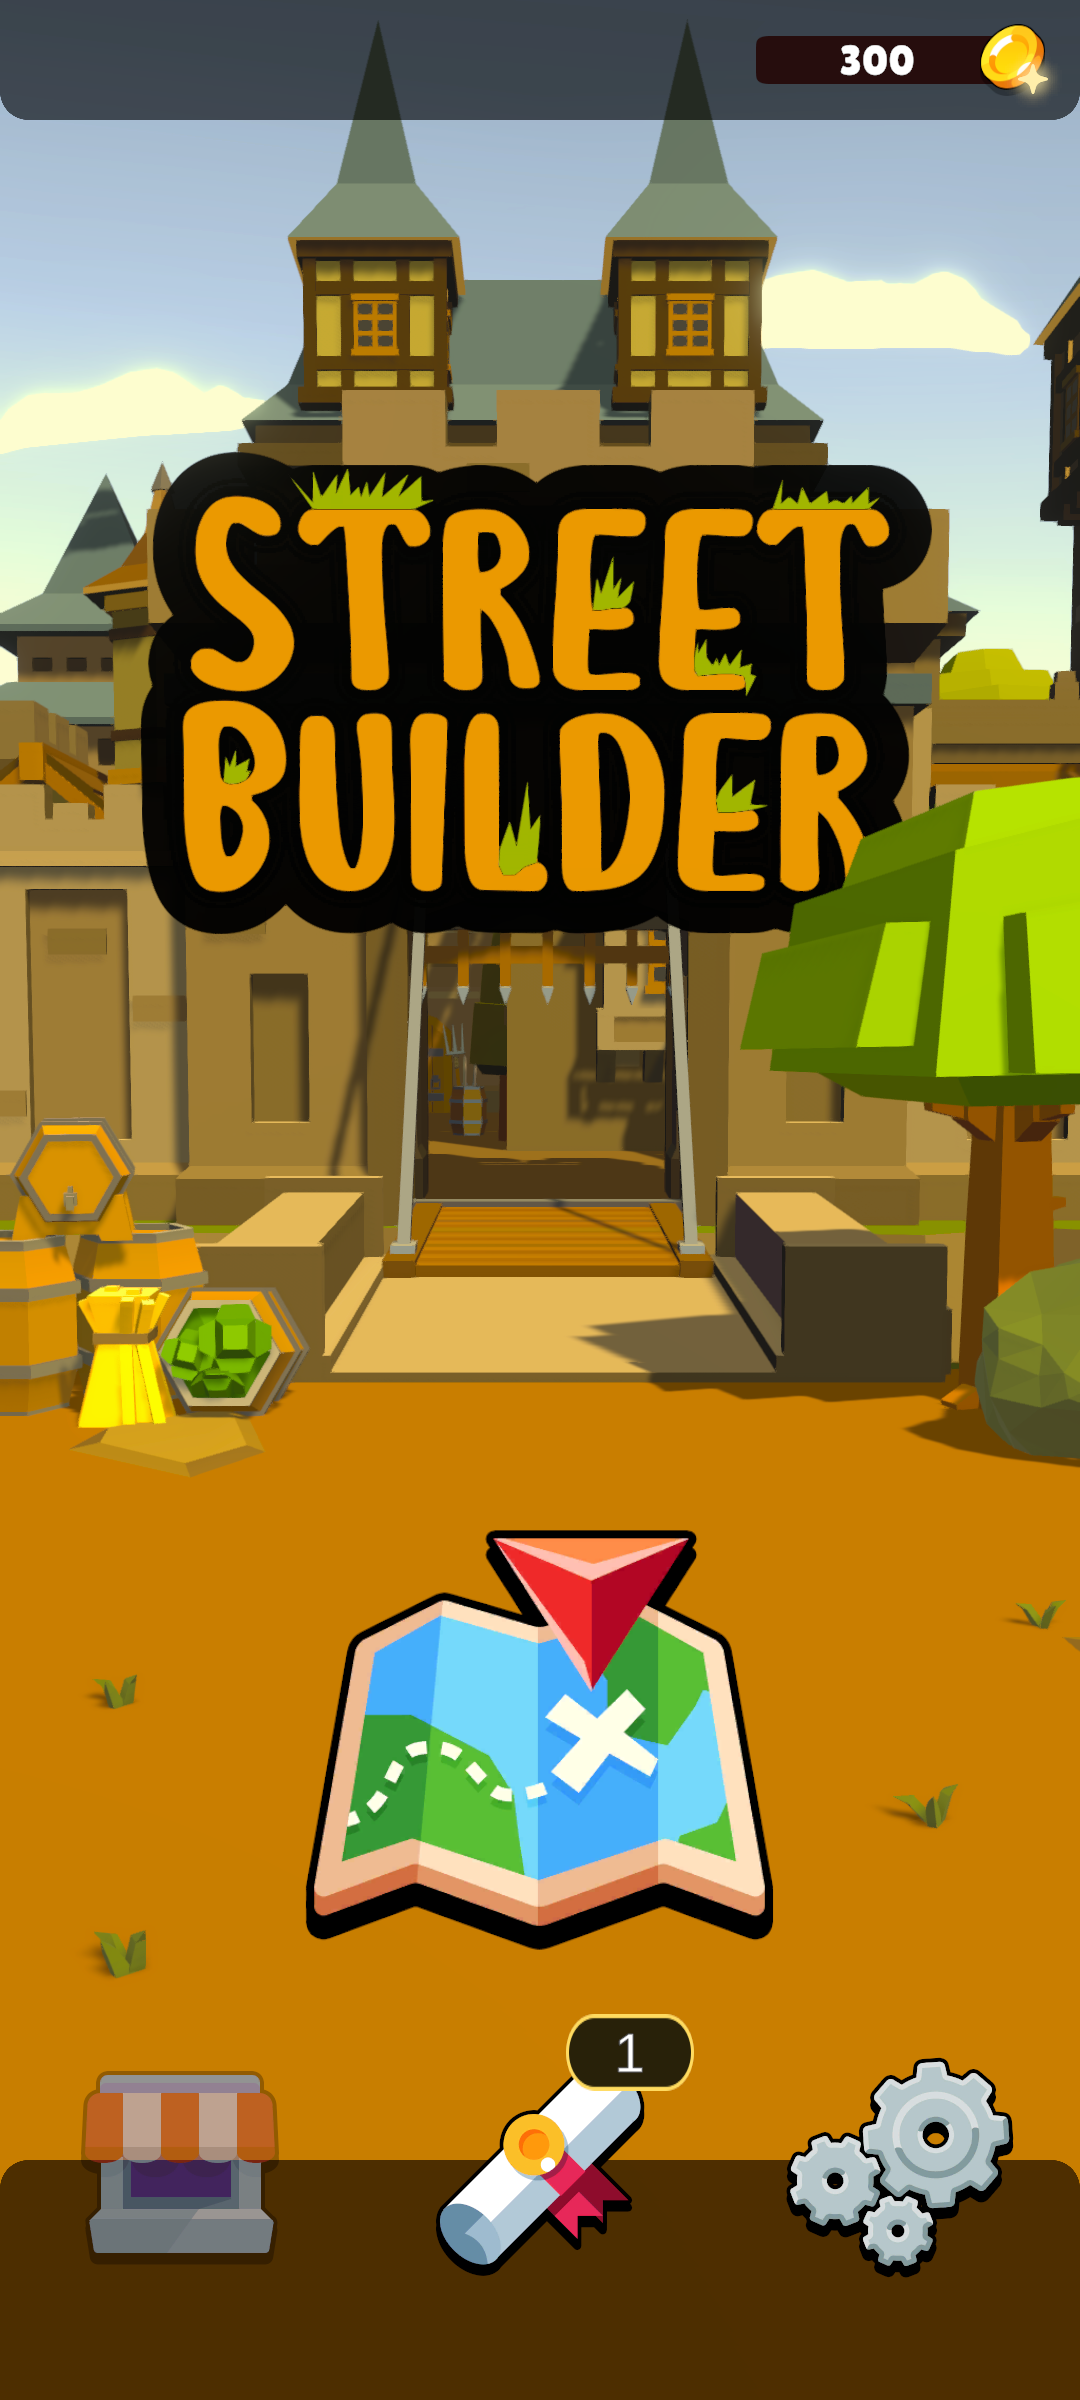
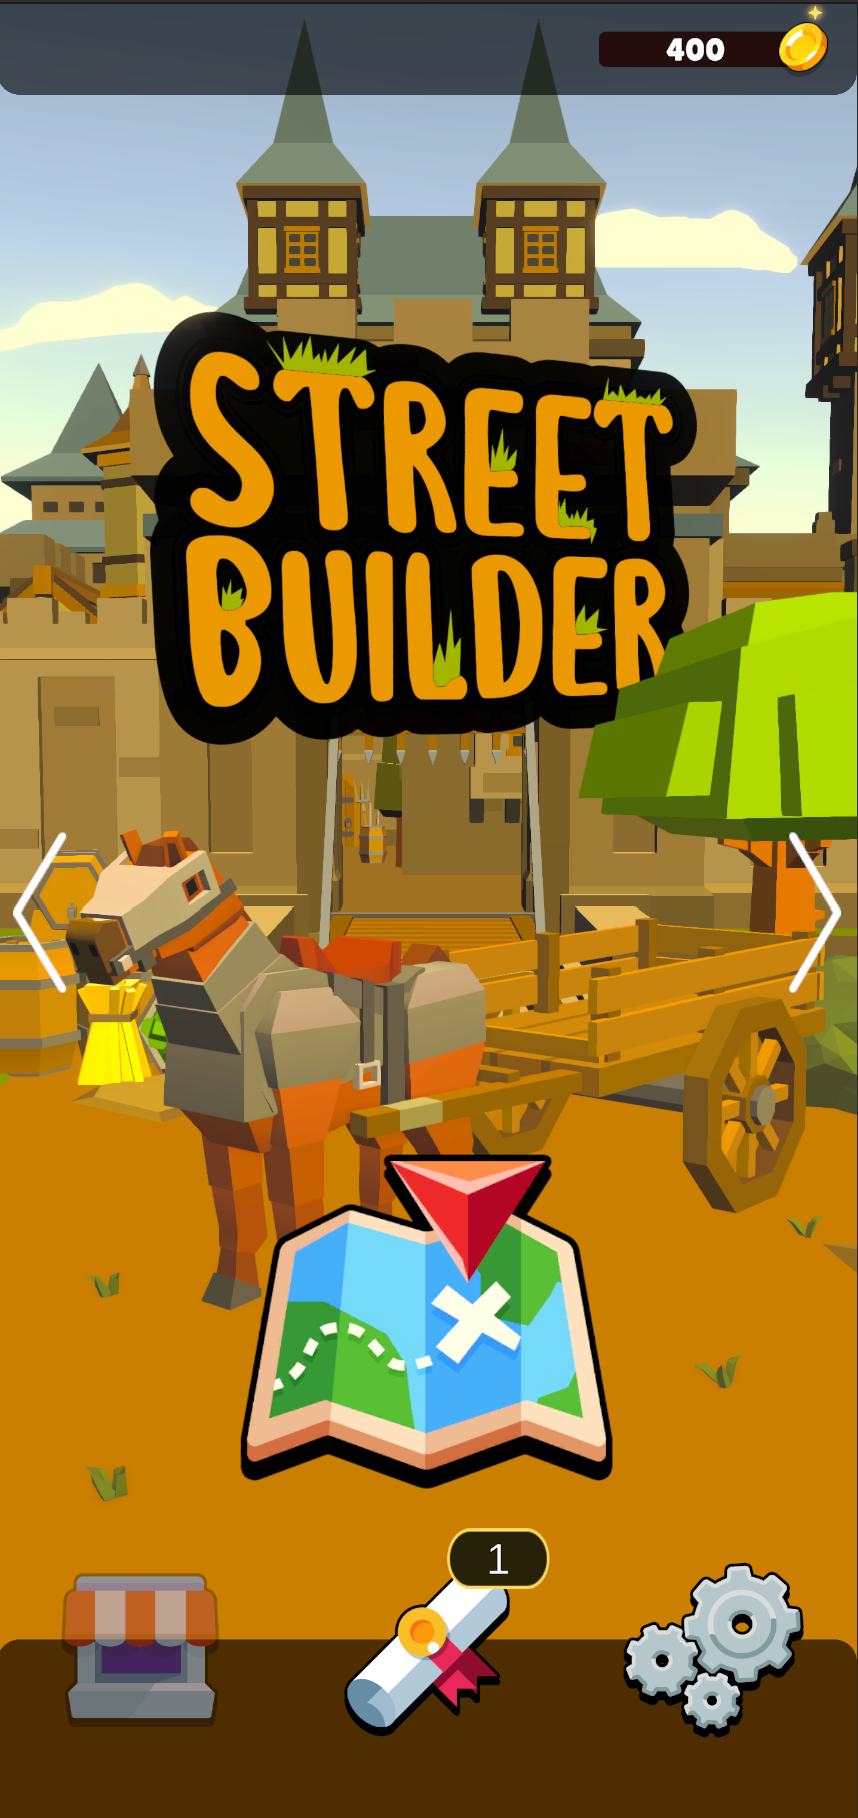
Added Images and Gif

diff --git a/README.md b/README.md
@@ -1,1 +1,3 @@
 # streetbuilder
+
+<img src="images/gameplay.gif" height="700px">
